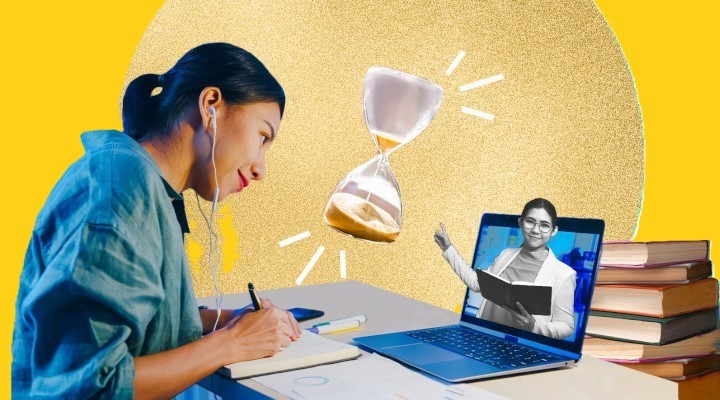
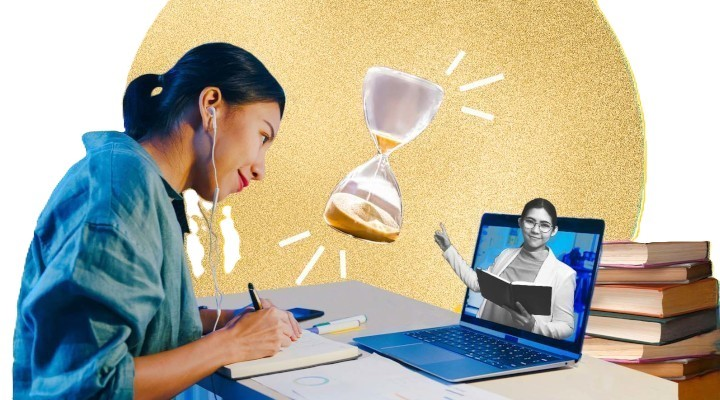
12/11/24 Office edit

Changed region(s): [[0.0, 0.0, 0.2444, 1.0], [0.825, 0.0, 1.0, 0.72], [0.2444, 0.45, 0.3361, 0.69]]

diff --git a/style.css b/style.css
@@ -122,6 +122,32 @@ body {
     transform: rotateZ(45deg);
 }
 
+.assign-course-container {
+    width: 100%;
+    display: flex;
+    justify-content: center;
+
+}
+
+.assign-course-button {
+    width: 90%;
+    max-width: 600px;
+    padding: 15px;
+    font-size: 18px;
+    font-weight: bold;
+    color: white;
+    background-image: linear-gradient( 135deg, #0856af 10%, #0a5d64 100%);
+    border: none;
+    border-radius: 5px;
+    cursor: pointer;
+    text-align: center;
+    transition: background-color 0.3s ease;
+}
+
+.assign-course-button:hover {
+    background-color: #45a049;
+}
+
 @media (max-width: 700px) {
     .video-gallery {
         width: 100%;

diff --git a/loginHomePage.html b/loginHomePage.html
@@ -109,6 +109,12 @@
     </div>
 
     <!-- \\\\\\\\\\\\\\\\\\\\\\\\\\\\\\\\\\\\\\\\\\\\\\\\\\\\\\\\\\\\\\\\\\\\\\\\\\\\\\\\\\\\\\ -->
+
+    <!-- Assign Course Button -->
+    <div class="assign-course-container">
+        <button class="assign-course-button">Assign Course</button>
+    </div> 
+
     <!-- Course Assignment Form -->
     <!-- <div class="form-overlay" id="form-overlay"></div>
     <div class="form-popup" id="form-popup">

diff --git a/index.html b/index.html
@@ -62,7 +62,7 @@
                     </div>
                 </div>
                 <div class="hero-image-wrapper">
-                    <img src="images/learn_yellow and blue_girl.jpg" alt="Hero" class="hero-image">
+                    <img src="images/learn_yellow and blue_girl2.png" alt="Hero" class="hero-image">
                 </div>
             </div>
         </section>

diff --git a/styles2.css b/styles2.css
@@ -71,7 +71,7 @@ body{
     font-weight: 400;
     line-height: 1.8;
     color: var(--dark-color);
-    background-color: #efefef;
+    background-color: var(--light-pink-color2)
 }
 
 h2{
